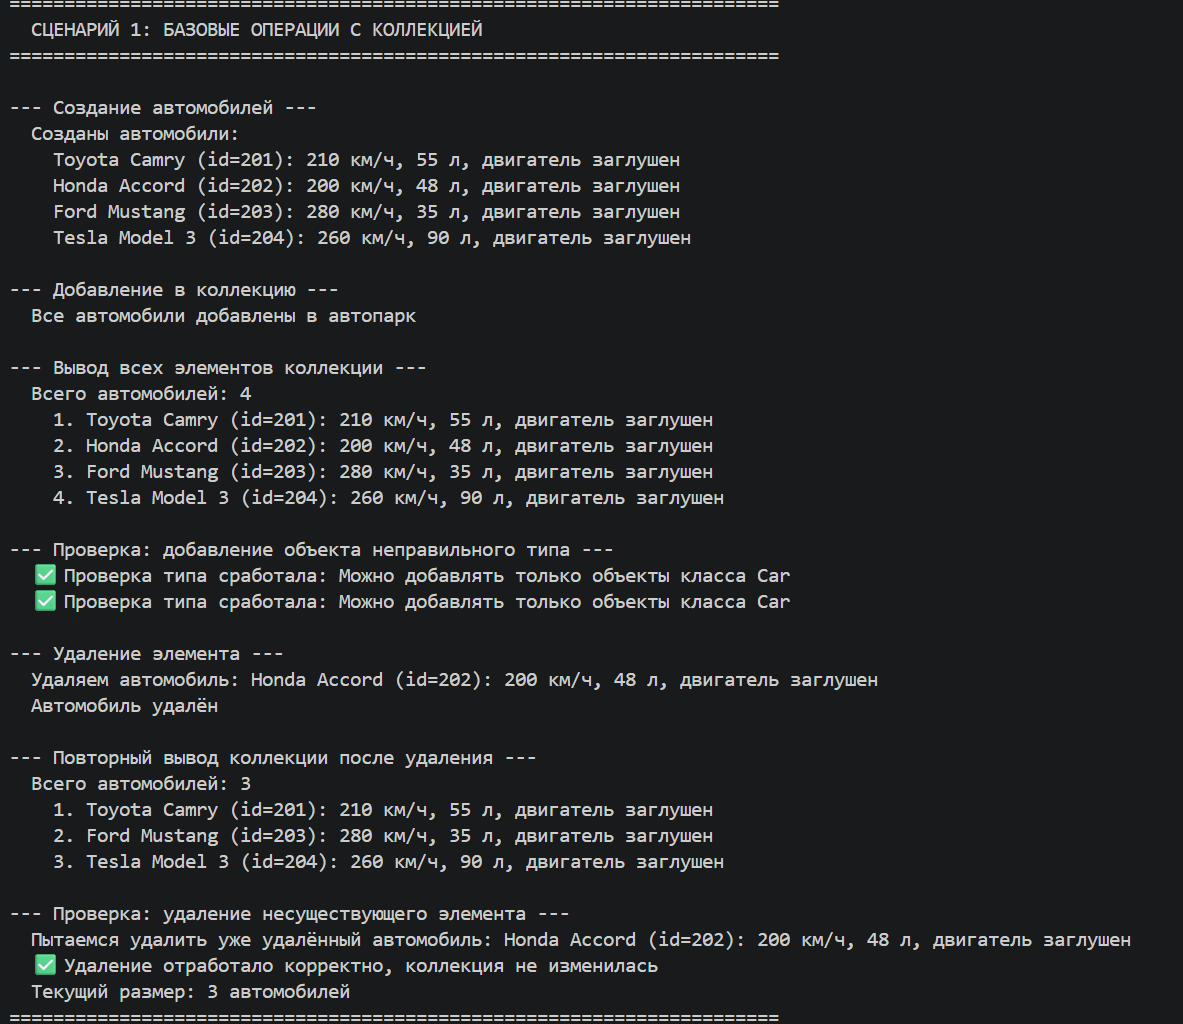
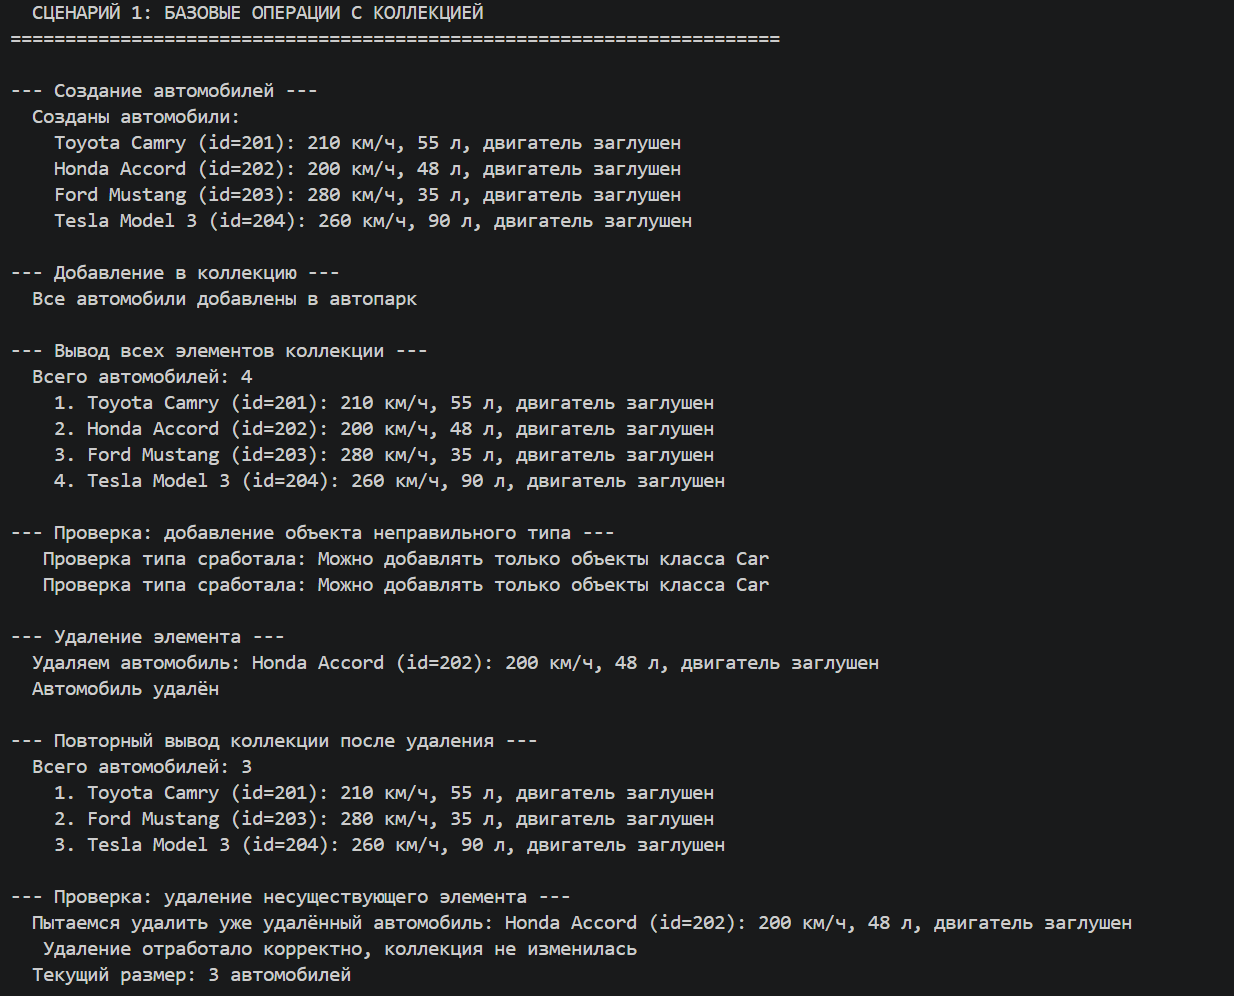
sd

Changed region(s): [[0.0, 0.5291, 0.9738, 1.0], [0.0, 0.0, 0.6695, 0.3112], [0.0304, 0.3424, 0.6086, 0.498]]

diff --git a/src/lib/lab02/demo.py b/src/lib/lab02/demo.py
@@ -47,15 +47,15 @@ def scenario_1():
     print_subsection("Проверка: добавление объекта неправильного типа")
     try:
         fleet.add("Это не автомобиль, а строка")
-        print("  ❌ ОШИБКА: Неправильный объект был добавлен!")
+        print("   ОШИБКА: Неправильный объект был добавлен!")
     except TypeError as e:
-        print(f"  ✅ Проверка типа сработала: {e}")
+        print(f"   Проверка типа сработала: {e}")
 
     try:
         fleet.add(12345)
-        print("  ❌ ОШИБКА: Число было добавлено!")
+        print("   ОШИБКА: Число было добавлено!")
     except TypeError as e:
-        print(f"  ✅ Проверка типа сработала: {e}")
+        print(f"   Проверка типа сработала: {e}")
 
     print_subsection("Удаление элемента")
     print(f"  Удаляем автомобиль: {car2}")
@@ -70,7 +70,7 @@ def scenario_1():
     print_subsection("Проверка: удаление несуществующего элемента")
     print(f"  Пытаемся удалить уже удалённый автомобиль: {car2}")
     fleet.remove(car2) 
-    print(f"  ✅ Удаление отработало корректно, коллекция не изменилась")
+    print(f"   Удаление отработало корректно, коллекция не изменилась")
     print(f"  Текущий размер: {len(fleet)} автомобилей")
 
     return fleet
@@ -96,9 +96,9 @@ def scenario_2(fleet: Fleet):
     for sid in search_ids:
         result = fleet.find_by_id(sid)
         if result:
-            print(f"  Поиск id={sid}: ✅ {result}")
+            print(f"  Поиск id={sid}:  {result}")
         else:
-            print(f"  Поиск id={sid}: ❌ не найден")
+            print(f"  Поиск id={sid}:  не найден")
 
     print_subsection("Поиск по марке")
     search_brands = ["BMW", "Toyota", "Lada"]
@@ -109,7 +109,7 @@ def scenario_2(fleet: Fleet):
             for car in results:
                 print(f"      - {car}")
         else:
-            print(f"  Поиск '{brand}': ❌ не найдено")
+            print(f"  Поиск '{brand}':  не найдено")
 
     print_subsection("Использование len()")
     print(f"  Размер коллекции: {len(fleet)}")
@@ -133,9 +133,9 @@ def scenario_2(fleet: Fleet):
 
     try:
         fleet.add(duplicate_car)
-        print("  ❌ ОШИБКА: Дубликат добавлен!")
+        print("   ОШИБКА: Дубликат добавлен!")
     except ValueError as e:
-        print(f"  ✅ Ограничение сработало: {e}")
+        print(f"   Ограничение сработало: {e}")
 
     print(f"\n  Размер коллекции не изменился: {len(fleet)} автомобилей")
 
